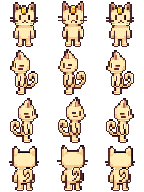
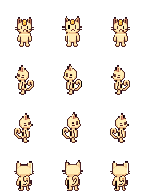
Motor Gemini para sprites y proporciones de las criaturas (#6)
Dos motores de imagen y una correccion de escala que venia de antes.

Motor Google (--motor=google):

- Gemini da mejor calidad que OpenAI en criaturas.
- No sabe devolver fondo transparente, asi que se le pide magenta puro y se
  recorta por color. limpiarFondo() detecta sola con que caso trata: si llega
  transparencia real umbraliza el alfa, y si llega opaca aplica el croma.
- La hoja cruda se guarda con sufijo por motor para no pisar la del otro.

Proporciones:

- ALTURA fija la altura relativa de cada personaje. Las criaturas iban al 100%
  y median lo mismo que un adulto; ahora van al 62-68%.
- Los sprites se anclan por los PIES en vez de por la cabeza. Anclando arriba,
  cualquier personaje mas bajo quedaba flotando sobre el suelo.

Las criaturas se describen sin ropa ni calzado: Gemini les ponia camiseta y
zapatillas por su cuenta.

diff --git a/SETUP.md b/SETUP.md
@@ -128,6 +128,17 @@ npm run sprites:ia -- ash        # un personaje (prueba)
 npm run sprites:ia -- --todos    # los nueve
 ```
 
+Hay **dos motores de imagen**. Por defecto usa OpenAI; con `--motor=google` usa
+Gemini (`GOOGLE_API_KEY` en `agents/.env`), que da mejor calidad en criaturas:
+
+```bash
+npm run sprites:ia -- pikachu --motor=google
+```
+
+Gemini no sabe devolver fondo transparente, así que se le pide **magenta puro** y
+se recorta por color. `limpiarFondo()` detecta sola con qué caso trata: si llega
+transparencia real umbraliza el alfa, y si llega opaca aplica el croma.
+
 Cómo funciona: pide **una sola imagen** con las tres vistas (frente, perfil y
 espalda) — dentro de una misma generación el modelo mantiene el mismo personaje,
 cosa que no ocurre si pides cada vista por separado. Después limpia el fondo,
@@ -141,6 +152,9 @@ derecho y monta la rejilla de 48x48.
   anota y el resto continúa. Suele pasar cuando la descripción se acerca
   demasiado a un personaje con copyright: reescríbela como personaje propio.
 - Las imágenes originales quedan en `.preview/ia-crudo/` (no se publican).
+- `ALTURA` fija la altura relativa de cada personaje. Las criaturas van al 62-68%
+  para que no midan lo mismo que un adulto. Los sprites se anclan por los **pies**,
+  así los bajitos se apoyan en el suelo en vez de quedar flotando.
 
 ## 👥 Crear tus propios agentes
 
